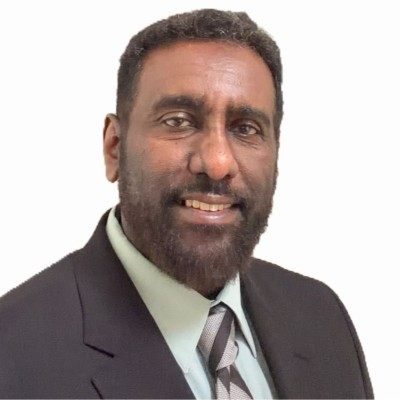
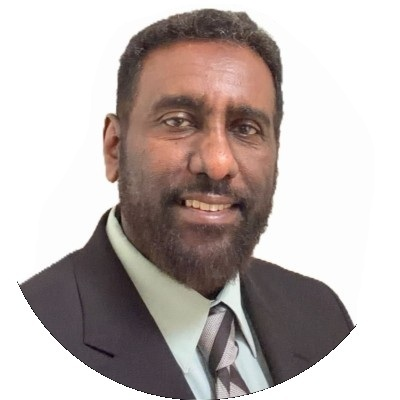
update website

Changed region(s): [[0.0, 0.69, 0.48, 1.0], [0.51, 0.81, 0.96, 1.0]]

diff --git a/.ipynb_checkpoints/index-checkpoint.html b/.ipynb_checkpoints/index-checkpoint.html
@@ -673,7 +673,7 @@ Worked as a Software Engineer and GIS Data Analyst with Imperial Marketing, AT&T
 
             <li class="project-item  active" data-filter-item data-category="ai & machine learning">
 
-              <a href="#">
+              <a href="https://github.com/elrayah/intent-classification-using-TF-DF-and-losticregression/blob/main/1-intent-classification-using-TF-DF-and-LogisticRegression.ipynb"  target="_blank">
 
                 <figure class="project-img">
                   <div class="project-item-icon-box">
@@ -683,7 +683,7 @@ Worked as a Software Engineer and GIS Data Analyst with Imperial Marketing, AT&T
                   <img src="./assets/images/project-1.png" alt="AI Assistant" loading="lazy">
                 </figure>
 
-                <h3 class="project-title">Automotive AI Assistant Analytics Platform</h3>
+                <h3 class="project-title"><span style="color: blue;">Automotive AI Assistant Analytics Platform</span></h3>
 
                 <p class="project-category">AI & Machine Learning</p>
 
@@ -802,7 +802,7 @@ Worked as a Software Engineer and GIS Data Analyst with Imperial Marketing, AT&T
 
             <li class="project-item  active" data-filter-item data-category="geospatial & mobility">
 
-              <a href="#">
+              <a href="https://transcendent-gecko-2982d3.netlify.app/" target="_blank">
 
                 <figure class="project-img">
                   <div class="project-item-icon-box">
@@ -813,7 +813,7 @@ Worked as a Software Engineer and GIS Data Analyst with Imperial Marketing, AT&T
                 </figure>
 
 
-                <h3 class="project-title">Connected-Vehicle Road-Condition Detection</h3>
+                <h3 class="project-title"><span style="color: blue;">Connected-Vehicle Road-Condition Detection</span></h3>
 
                 <p class="project-category">Geospatial & Mobility</p>
 
@@ -834,7 +834,7 @@ Worked as a Software Engineer and GIS Data Analyst with Imperial Marketing, AT&T
                   <img src="./assets/images/project-8.png" alt="task manager" loading="lazy">
                 </figure>
 
-                <h3 class="project-title">Traffic Crash Risk and Injury-Severity Prediction</h3>
+                <h3 class="project-title"><span style="color: blue;">Advanced Geospatial Analytics</span></h3>
 
                 <p class="project-category">Geospatial & Mobility</p>
 
@@ -845,7 +845,7 @@ Worked as a Software Engineer and GIS Data Analyst with Imperial Marketing, AT&T
 
             <li class="project-item  active" data-filter-item data-category="geospatial & mobility">
 
-              <a href="#">
+              <a href="https://github.com/elrayah/advanced-geospatial-analytics/blob/main/geospatail_analytics_geospatial_libraries.ipynb" target="_blank">
 
                 <figure class="project-img">
                   <div class="project-item-icon-box">

diff --git a/index-bkp2.html b/index-bkp2.html
@@ -673,7 +673,7 @@ Worked as a Software Engineer and GIS Data Analyst with Imperial Marketing, AT&T
 
             <li class="project-item  active" data-filter-item data-category="ai & machine learning">
 
-              <a href="https://github.com/elrayah/intent-classification-using-TF-DF-and-losticregression/blob/main/1-intent-classification-using-TF-DF-and-LogisticRegression.ipynb"  target="_blank">
+              <a href="#">
 
                 <figure class="project-img">
                   <div class="project-item-icon-box">
@@ -683,7 +683,7 @@ Worked as a Software Engineer and GIS Data Analyst with Imperial Marketing, AT&T
                   <img src="./assets/images/project-1.png" alt="AI Assistant" loading="lazy">
                 </figure>
 
-                <h3 class="project-title"><span style="color: blue;">Automotive AI Assistant Analytics Platform</span></h3>
+                <h3 class="project-title">Automotive AI Assistant Analytics Platform</h3>
 
                 <p class="project-category">AI & Machine Learning</p>
 
@@ -802,7 +802,7 @@ Worked as a Software Engineer and GIS Data Analyst with Imperial Marketing, AT&T
 
             <li class="project-item  active" data-filter-item data-category="geospatial & mobility">
 
-              <a href="https://transcendent-gecko-2982d3.netlify.app/" target="_blank">
+              <a href="https://pothole-detection-simulation.netlify.app/" target="_blank">
 
                 <figure class="project-img">
                   <div class="project-item-icon-box">
@@ -824,7 +824,7 @@ Worked as a Software Engineer and GIS Data Analyst with Imperial Marketing, AT&T
 
             <li class="project-item  active" data-filter-item data-category="geospatial & mobility">
 
-              <a href="https://github.com/elrayah/advanced-geospatial-analytics/blob/main/geospatail_analytics_geospatial_libraries.ipynb" target="_blank">
+              <a href="#">
 
                 <figure class="project-img">
                   <div class="project-item-icon-box">
@@ -834,7 +834,7 @@ Worked as a Software Engineer and GIS Data Analyst with Imperial Marketing, AT&T
                   <img src="./assets/images/project-8.png" alt="task manager" loading="lazy">
                 </figure>
 
-                <h3 class="project-title"><span style="color: blue;">Advanced Geospatial Analytics</span></h3>
+                <h3 class="project-title">Traffic Crash Risk and Injury-Severity Prediction</h3>
 
                 <p class="project-category">Geospatial & Mobility</p>
 

diff --git a/assets/css/.ipynb_checkpoints/style-checkpoint.css b/assets/css/.ipynb_checkpoints/style-checkpoint.css
@@ -445,7 +445,36 @@ main {
   opacity: 1;
   visibility: visible;
 }
+.sidebar,
+.sidebar-info_more {
+  font-family: "Inter", "Segoe UI", Arial, sans-serif;
+}
 
+.sidebar .name {
+  font-size: 24px;
+  font-weight: 700;
+  line-height: 1.25;
+  letter-spacing: -0.5px;
+}
+
+.sidebar .title {
+  font-size: 12px;
+  font-weight: 500;
+  line-height: 1.4;
+}
+
+.sidebar .contact-title {
+  font-size: 11px;
+  font-weight: 600;
+  letter-spacing: 0.6px;
+}
+
+.sidebar .contact-link,
+.sidebar .contact-info address {
+  font-size: 13px;
+  font-weight: 500;
+  line-height: 1.45;
+}
 .contacts-list {
   display: grid;
   grid-template-columns: 1fr;
@@ -462,39 +491,59 @@ main {
 .contact-info {
   max-width: calc(100% - 46px);
   width: calc(100% - 46px);
+  font-family: "Inter", "Segoe UI", Arial, sans-serif;
 }
 
 .contact-title {
   color: var(--light-gray-70);
-  font-size: var(--fs-8);
+  font-family: inherit;
+  font-size: 11px;
+  font-weight: 600;
+  line-height: 1.2;
+  letter-spacing: 0.6px;
   text-transform: uppercase;
-  margin-bottom: 2px;
+  margin-bottom: 4px;
 }
 
 .contact-info :is(.contact-link, time, address) {
   color: var(--white-2);
-  font-size: var(--fs-7);
+  font-family: inherit;
+  font-size: 13px;
+  font-weight: 500;
+  line-height: 1.45;
 }
 
-.contact-info address { font-style: normal; }
+.contact-info .contact-link {
+  transition: color 0.2s ease;
+}
+
+.contact-info .contact-link:hover {
+  color: var(--orange-yellow-crayola);
+}
+
+.contact-info address {
+  font-style: normal;
+}
 
 .social-list {
   display: flex;
   justify-content: flex-start;
   align-items: center;
   gap: 15px;
-  padding-bottom: 4px;
-  padding-left: 7px;
+  padding: 4px 0 4px 7px;
 }
 
 .social-item .social-link {
   color: var(--light-gray-70);
   font-size: 18px;
+  transition: color 0.2s ease,
+              transform 0.2s ease;
 }
 
-
-.social-item .social-link:hover { color: var(--light-gray); }
-
+.social-item .social-link:hover {
+  color: var(--orange-yellow-crayola);
+  transform: translateY(-2px);
+}
 
 
 
@@ -548,7 +597,13 @@ main {
     font-weight: 600; }
 
 
-
+.coming-soon-link small {
+  display: inline;
+  margin-left: 3px;
+  color: #d97706;
+  font-size: 9px;
+  font-weight: 600;
+}
 
 
 

diff --git a/assets/css/style.css b/assets/css/style.css
@@ -445,7 +445,36 @@ main {
   opacity: 1;
   visibility: visible;
 }
+.sidebar,
+.sidebar-info_more {
+  font-family: "Inter", "Segoe UI", Arial, sans-serif;
+}
 
+.sidebar .name {
+  font-size: 24px;
+  font-weight: 700;
+  line-height: 1.25;
+  letter-spacing: -0.5px;
+}
+
+.sidebar .title {
+  font-size: 12px;
+  font-weight: 500;
+  line-height: 1.4;
+}
+
+.sidebar .contact-title {
+  font-size: 11px;
+  font-weight: 600;
+  letter-spacing: 0.6px;
+}
+
+.sidebar .contact-link,
+.sidebar .contact-info address {
+  font-size: 13px;
+  font-weight: 500;
+  line-height: 1.45;
+}
 .contacts-list {
   display: grid;
   grid-template-columns: 1fr;
@@ -462,39 +491,59 @@ main {
 .contact-info {
   max-width: calc(100% - 46px);
   width: calc(100% - 46px);
+  font-family: "Inter", "Segoe UI", Arial, sans-serif;
 }
 
 .contact-title {
   color: var(--light-gray-70);
-  font-size: var(--fs-8);
+  font-family: inherit;
+  font-size: 11px;
+  font-weight: 600;
+  line-height: 1.2;
+  letter-spacing: 0.6px;
   text-transform: uppercase;
-  margin-bottom: 2px;
+  margin-bottom: 4px;
 }
 
 .contact-info :is(.contact-link, time, address) {
   color: var(--white-2);
-  font-size: var(--fs-7);
+  font-family: inherit;
+  font-size: 13px;
+  font-weight: 500;
+  line-height: 1.45;
 }
 
-.contact-info address { font-style: normal; }
+.contact-info .contact-link {
+  transition: color 0.2s ease;
+}
+
+.contact-info .contact-link:hover {
+  color: var(--orange-yellow-crayola);
+}
+
+.contact-info address {
+  font-style: normal;
+}
 
 .social-list {
   display: flex;
   justify-content: flex-start;
   align-items: center;
   gap: 15px;
-  padding-bottom: 4px;
-  padding-left: 7px;
+  padding: 4px 0 4px 7px;
 }
 
 .social-item .social-link {
   color: var(--light-gray-70);
   font-size: 18px;
+  transition: color 0.2s ease,
+              transform 0.2s ease;
 }
 
-
-.social-item .social-link:hover { color: var(--light-gray); }
-
+.social-item .social-link:hover {
+  color: var(--orange-yellow-crayola);
+  transform: translateY(-2px);
+}
 
 
 
